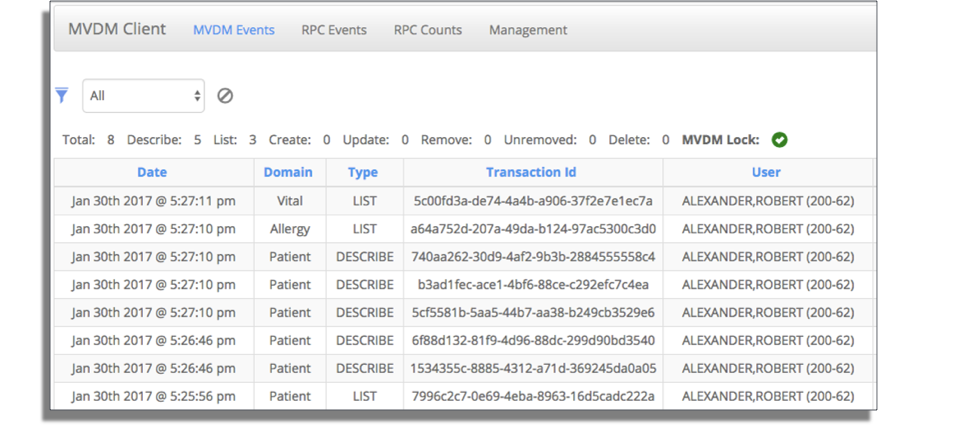
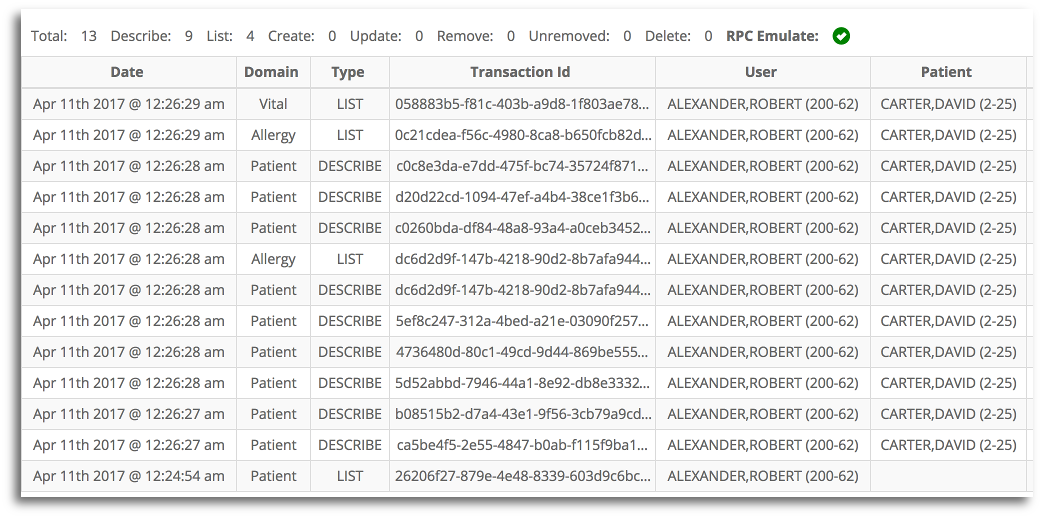
Update main demo page

diff --git a/demo/index.md b/demo/index.md
@@ -4,7 +4,7 @@ title: MVDM Demo
 ---
 
 # MVDM Demo
-The following sections describe first how to install the nodeVISTA server and CPRS client, and then how to run the MVDM demo. __The demo focuses on how MVDM audits, secures, and emulates existing VISTA clients such as CPRS using the RPC Emulator__. 
+The following sections describe first how to install the **nodeVISTA** server and CPRS client, and then how to run the MVDM demo. __The demo focuses on how MVDM audits, secures, and emulates existing VISTA clients such as CPRS using the RPC Emulator__.
 
 
 ![CPRS-MVDM-Clients -width70](/demo/images/common/demo-cprs-mvdm-clients.png)
@@ -12,21 +12,20 @@ The following sections describe first how to install the nodeVISTA server and CP
 ## Installation and Orientation
 1. [Install nodeVISTA](#nodevista-installation)
 2. [Install CPRS](#cprs--rpc-server-installation)
-3. [Open MVDM Client](#open-mvdm-client)
-4. [Open and login to CPRS](#cprs-sign-on--patient-chart)
+3. [Open nodeVISTA Manager](#open-the-nodevista-manager)
+4. [CPRS Sign-On / Patient Chart](#cprs-sign-on--patient-chart)
 
-## Domain by Domain HOW TOs
+## Domain Demo HOW TOs
 * [Allergies](Allergies)
 * [Problems](Problems)
 * [Vitals](Vitals)
 * [Patient](Patient_1)
 
-<br><br><br><br><br><br>
+-----
 
+## nodeVISTA Installation
 
-# nodeVISTA Installation
-
-The following outlines how to install nodeVISTA server in a VirtualBox virtual machine.
+The following outlines how to install **nodeVISTA** server in a VirtualBox virtual machine.
 
 * Download and install [Git](https://git-scm.com/downloads)
 
@@ -34,46 +33,50 @@ The following outlines how to install nodeVISTA server in a VirtualBox virtual m
 
 * Download and install [Vagrant](https://www.vagrantup.com/downloads.html)
 
-* From the command line, install the following Vagrant plugin(s):
-
-    ```
+* From the command line, install the `vagrant-timezone` Vagrant plugin by running the following command:
+    ```shell
     $ vagrant plugin install vagrant-timezone
     ```
 
-* Download (_git clone_) or update (_git pull_) the _nodeVISTA_ git, https://github.com/vistadataproject/nodeVISTA
-
-    ```
+* Download (`git clone`) or update (`git pull`) the **nodeVISTA** repository: [https://github.com/vistadataproject/nodeVISTA](https://github.com/vistadataproject/nodeVISTA)
+    ```shell
     $ git clone https://github.com/vistadataproject/nodeVISTA
     ```
 
-* cd to the _nodeVista/setup/_ directory 
+* `cd` to the `nodeVista/setup/` directory
 
-* if you have previously installed nodeVISTA , then clear out your current setup ...
-
+* If you have installed a **nodeVISTA** VM beforehand, clear out your current VM and setup by running the following command:
+   ```shell
+   $ vagrant destroy --force
    ```
-   $ vagrant destroy
-   ```
 
-* run the following:
-
-    ```
+* Create and configure the **nodeVISTA** VM by running the following command:
+    ```shell
     $ vagrant up
     ```
 
-    The initial Vagrant up process will download a pre-built nodeVISTA vagrant box. The box is ~2.6gb in size and may take awhile to initally download. The box will be cached and subsequent deployments will not take as long.   Note: On MacOS, the VirtualBox VMs are saved under /Users/{user}/VirtualBox VMs/.
+    The initial `vagrant up` process will download a pre-built **nodeVISTA** Vagrant VM. The VM is ~2.6 GB in size and may take awhile to initially download, depending on your network connection speed. The process caches the pre-built VM, and subsequent deployments will not take as long.
 
-* Check that the nodeVistA Model Browser (Fileman Schema Browser) was installed successfully by navigating your browser to [http://10.2.2.100:9000](http://10.2.2.100:9000).
+    Note: VirtualBox VMs go under `/Users/{user}/VirtualBox VMs/` on MacOS.
 
-<br><br>
+* Check that the **nodeVISTA** Model Browser (Fileman Schema Browser) was installed successfully by navigating your browser to [http://10.2.2.100:9000](http://10.2.2.100:9000).
 
-![FM Schema Browser](/demo/images/common/fmql-browser.png)
+![FM Schema Browser -width70](/demo/images/common/fmql-browser.png)
 
-<br><br><br><br><br>
+* As an optional step, if you're working on a Linux or Mac OS host, you may want to append the following command aliases to the `.profile` file in your home directory (i.e. `~/.profile`):
+```
+alias nv-reload='cd ~/vagrant/nodeVISTA/setup; vagrant reload; nv-status'
+alias nv-halt='cd ~/vagrant/nodeVISTA/setup; vagrant halt; nv-status'
+alias nv-status='cd ~/vagrant/nodeVISTA/setup; nv; vagrant status'
+alias nv-ssh='echo "nodeVISTA ssh user/pass: vdp/vdp"; ssh vdp@10.2.2.100'
+alias nv-vdm-browser='open http://10.2.2.100:9000'
+```
+[ Back to top ↑](#top)
 
 
-# CPRS / RPC Server Installation
+## CPRS / RPC Server Installation
 
-Summary:
+### Summary
 
 Source | Artifact/Action | Target Path
 --- | --- | ---
@@ -82,99 +85,97 @@ Source | Artifact/Action | Target Path
 *Download/Unzip*<br> [CPRS30v72_dll.zip](http://45.33.127.157/files/CPRS30v72_dll.zip) |  **CPRS30v72_dll/** (folder)  <br> 1. Copy contents of folder to target path <br> *(overwrites contents in target folder)* | C:\Program Files (x86)\VistA\Common Files\  
 *(Windows Desktop Shortcut)*<br> **RPC Server**  | 1.Rename "Osehra VistA CPRS" shortcut -> "RPC Server" <br> 2.  Right-click "RPC Server"<br> 3.Select "properties" <br>4. Paste path| "C:\Program Files (x86)\VistA\CPRS\CPRSChart.exe" CCOW=disable s=10.2.2.100 p=9010 showrpcs
 
-<br>
-Steps:
+The Computerized Patient Record System (CPRS) is a Veterans Health Information Systems and Technology Architecture (VistA) computer application. The CPRS GUI application was
+designed to run in the Microsoft Windows operating environment, which means that you must have access to a Windows-based workstation (physical or virtual). If you're
+working in a Linux or Mac OS X environment, a common solution is to run CPRS from a Windows-based VM within a locally hosted hypervisor (e.g. VirtualBox).
 
-1. On a Windows7 or Windows10 box, download, unzip, install osehra CPRS installer: [CPRS_Demo_0613.zip](https://github.com/vistadataproject/documents/raw/master/cprs/osehra/v69/CPRS_Demo_0613.zip)
+1. If you are operating within a Linux or Mac OS X environment, create a VM running either Windows 7 or Windows 10 in your hosted hypervisor of choice. Note: Microsoft
+offers free versions of pre-built, virtualized versions of their Windows OS for download for several hosted hypervisors [https://developer.microsoft.com/en-us/microsoft-edge/tools/vms/#downloads](https://developer.microsoft.com/en-us/microsoft-edge/tools/vms/#downloads).
 
-2. Download/unzip the latest version of VA's CPRS binary: [CPRSChart30v75.zip (v1.0.30.75)](http://45.33.127.157/files/CPRSChart30v75.zip).
+2. From your Windows-based workstation (physical or virtual), download, unzip, and run the OSEHRA CPRS installer: [CPRS_Demo_0613.zip](https://github.com/vistadataproject/documents/raw/master/cprs/osehra/v69/CPRS_Demo_0613.zip)
 
-3. Rename the uncompressed binary CPRSChart30v75.exe to CPRSChart.exe.
+3. Download the latest version of VA's CPRS binary: [CPRSChart30v75.zip (v1.0.30.75)](http://45.33.127.157/files/CPRSChart30v75.zip).
 
-4. Copy/overwrite the latest CPRSChart.exe binary (v1.0.30.75) into directory C:\Program Files (x86)\VistA\CPRS\ [CPRSChart.exe]
+4. Unzip `CPRSChart30v75.zip` and rename the `CPRSChart30v75.exe` uncompressed binary file to `CPRSChart.exe`.
 
-5. Download/unzip CommonFiles DLLs [CPRS30v72_dll.zip](http://45.33.127.157/files/CPRS30v72_dll.zip).
+5. Overwrite `C:\Program Files (x86)\VistA\CPRS\CPRSChart.exe` with the latest binary (v1.0.30.75).
 
-6. Copy/overwrite the contents of the CPRS30v72_dll/ folder to C:\Program Files (x86)\VistA\Common Files\  [CPRS30v72_dll].
+6. Download the latest CommonFiles DLLs: [CPRS30v72_dll.zip](http://45.33.127.157/files/CPRS30v72_dll.zip).
 
-7. Copy the Osehra VistA Desktop Shortcut and rename it to something like "RPC Server", etc.
+7. Unzip `CPRS30v72_dll.zip` and copy/overwrite the contents of the `CPRS30v72_dll/` folder to `C:\Program Files (x86)\VistA\Common Files`.
 
-8. Right click on the new desktop shortcut ("RPC Server") and select "properties".
+8. Copy the OSEHRA VistA Desktop Shortcut and rename it to something like "RPC Server", etc.
 
-9. Modify the target to the following: "C:\Program Files (x86)\VistA\CPRS\CPRSChart.exe" CCOW=disable s=10.2.2.100 p=9010 showrpcs
+9. Right click on the new desktop shortcut ("RPC Server") and select "Properties".
 
-10. Run "RPC Server" from windows desktop
+10. Modify the shortcut `Target` field with the following line:
+    ```
+    "C:\Program Files (x86)\VistA\CPRS\CPRSChart.exe" CCOW=disable s=10.2.2.100 p=9010 showrpcs
+    ```
 
-<br><br>
-![run RP Server](/demo/images/common/run-rpc-server.png)
-<br><br><br><br><br><br>
+11. Run "RPC Server" from the Windows desktop
 
+![run RPC Server](/demo/images/common/run-rpc-server.png)
 
-
-
-# Open MVDM Client 
-
-Point your web browser to MVDM Client page at:  [http://10.2.2.100:9020/#rpcEvents](http://10.2.2.100:9020/#rpcEvents).
-
-![MVDM Client Open](/demo/images/common/management-client/open-empty.png)
-<br><br><br><br><br><br>
+[ Back to top ↑](#top)
 
 
+## Open the nodeVISTA Manager
 
-# CPRS Sign-on / Patient-Chart
+Enter the **nodeVISTA Manager** URL into your web browser: [http://10.2.2.100:9020/#rpcCounts](http://10.2.2.100:9020/#rpcCounts).
 
-Start CPRS ... 
+![nodeVISTA Manager RPC Counts -width70](/demo/images/common/management-client/rpc-counts-view.png)
+
+[ Back to top ↑](#top)
+
+
+## CPRS Sign-on / Patient-Chart
+
+To watch the RPC events, select the **RPC Events** tab in the **nodeVISTA Manager** [(http://10.2.2.100:9020/#rpcEvents)](http://10.2.2.100:9020/#rpcEvents)
+
+![nodeVISTA Manager Open -width70](/demo/images/common/management-client/open-empty.png)
+
+Start CPRS...
 
 ![CPRS Connect Screen](/demo/images/common/cprs/connect.png)
 
-<br><br><br>
+Before logging in, notice that the **nodeVISTA Manager** **RPC Events** tab shows the first RPC traffic coming from CPRS.
 
-Before logging in, notice that the MVDM Client's Events tab shows the first RPC traffic coming from CPRS.
+![MVDM Client CPRS Connect -width70](/demo/images/common/management-client/connect.png)
 
-![MVDM Client CPRS Connect](/demo/images/common/management-client/connect.png)
-<br><br><br>
-
-Login into VISTA (your username will be set to ALEXANDER,ROBERT)
-
+Login into VISTA as **ALEXANDER,ROBERT** using the following credentials:
 ```
    Access Code: fakedoc1
    Verify Code: 1doc!@#$
 ```
 
+![CPRS Sign On -width70](/demo/images/common/cprs/signon.png)
 
+After login, you will be brought to the patient selection dialog...
 
-![CPRS Sign On](/demo/images/common/cprs/signon.png)
-<br><br><br>
+![CPRS Patient Select -width70](/demo/images/common/cprs/patient-select.png)
+Before choosing patient **Carter,David**, look in the **nodeVISTA Manager** and see just how _chatty_ CPRS is. Before any patient is
+selected, over 80 RPCs have been sent...
 
-After login, you will be brought to the patient selection dialog ...
+![MVDM Client Patient Select -width70](/demo/images/common/management-client/p1postlogsmall.png)
 
-![CPRS Patient Select](/demo/images/common/cprs/patient-select.png)
-<br><br><br>
-
-Before choosing _Carter,David_, look in the MVDM management client and see just how _chatty_ CPRS is. 
-Before any patient is selected, nearly 80 RPCs have been sent ...
-
-![MVDM Client Patient Select](/demo/images/common/management-client/p1postlogsmall.png)
-<br><br><br>
 
 Back at CPRS, select 'OK' and you will be brought to the (empty) patient chart
 
 ![CPRS Patient Chart -width70](/demo/images/common/cprs/patient-chart.png)
-<br><br><br>
 
-and the Management client shows the extra RPCs invoked - the total is now at 112 ...
+and the **nodeVISTA Manager** shows the extra RPCs invoked - the total is now at 122...
 
-![MVDM Client P2 Patient Chart](/demo/images/common/management-client/p2patient-chart-no-data.png)
-<br><br><br>
+![MVDM Client P2 Patient Chart -width70](/demo/images/common/management-client/p2patient-chart-no-data.png)
 
-and the _MVDM Events_ tab shows MVDM model events for locked RPCs ...
+and the **MVDM Events** tab shows MVDM model events for emulated RPCs...
 
-![MVDM Client P2 MVDM Events](/demo/images/common/management-client/p2mvdmevents.png)
-<br><br><br><br><br><br>
+![MVDM Client P2 MVDM Events -width70](/demo/images/common/management-client/p2mvdmevents.png)
 
+[ Back to top ↑](#top)
 
 
-# Domain by Domain HOW TOs
+# Domain Demo HOW TOs
 
 * [Allergies](Allergies)
 * [Problems](Problems)
